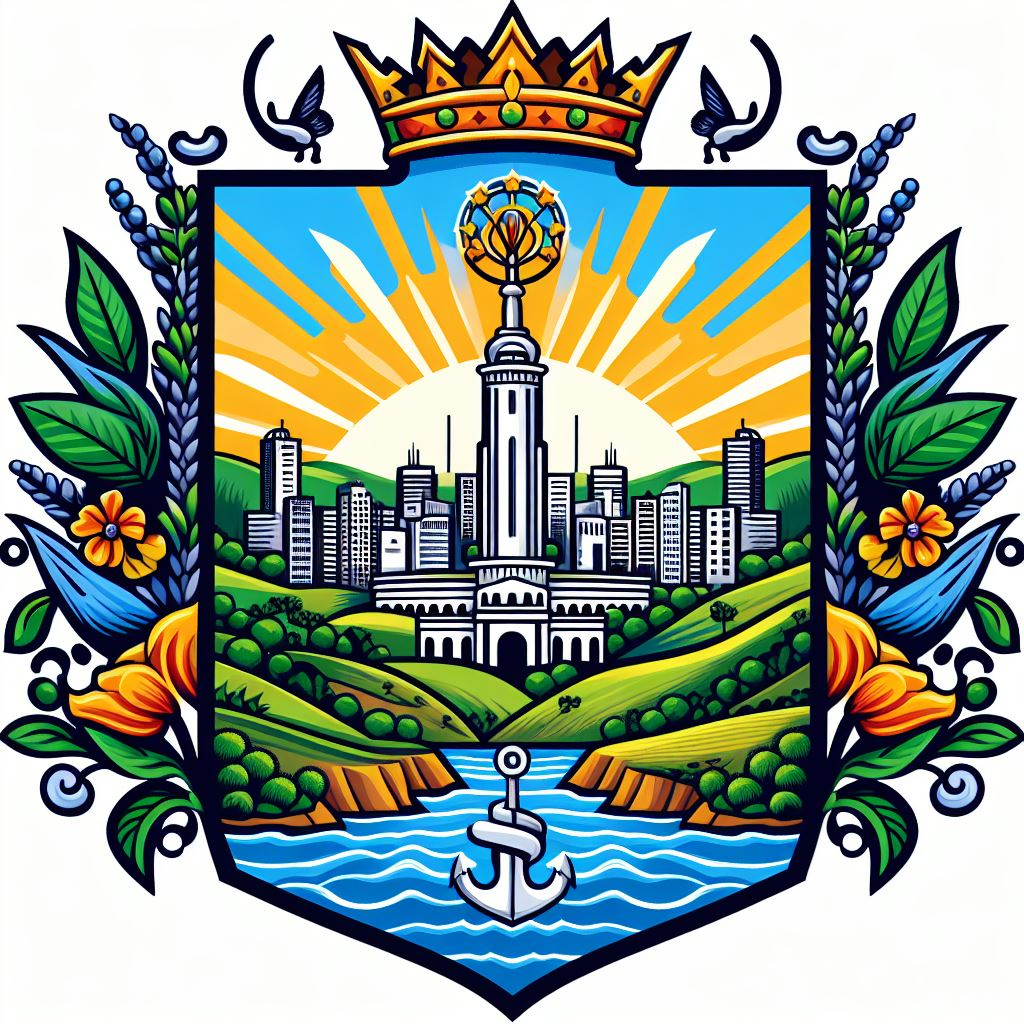
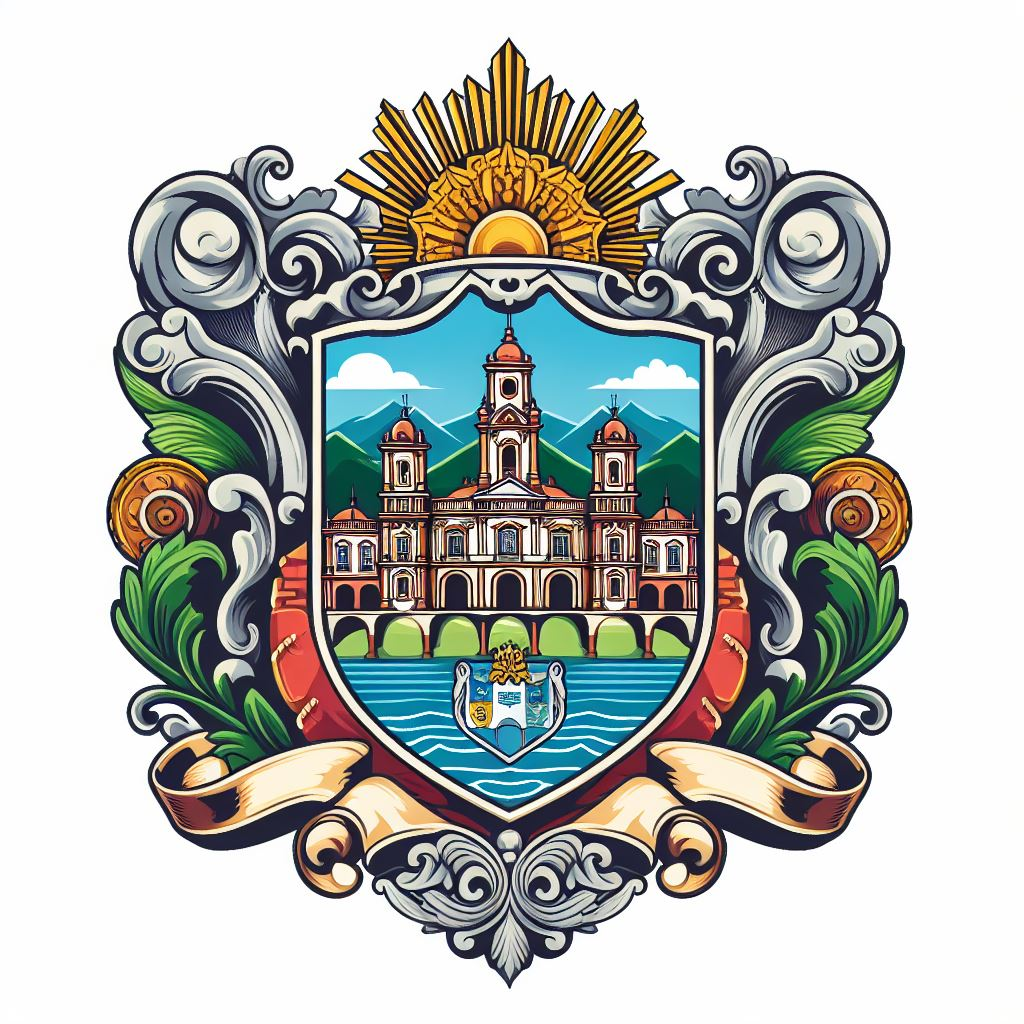
Desenvolvimento da tela de Login
- Adiciona o modelo de usuários da aplicação
- Adiciona os requerimentos
- Atualiza o brasão

diff --git a/olasus_app/templates/olasus_app/index.html b/olasus_app/templates/olasus_app/index.html
@@ -53,7 +53,7 @@
             <div>
                 <ul><li>Links Importantes</li>
                     <li><hr></li>
-                    <li>Fonte de inspiração</li>
+                    <li><a href="https://sistemas.elosis.com.br/santacruz/login">Fonte de inspiração</a></li>
                     <li>Meu GitHub</li>
                 </ul>
             </div>
